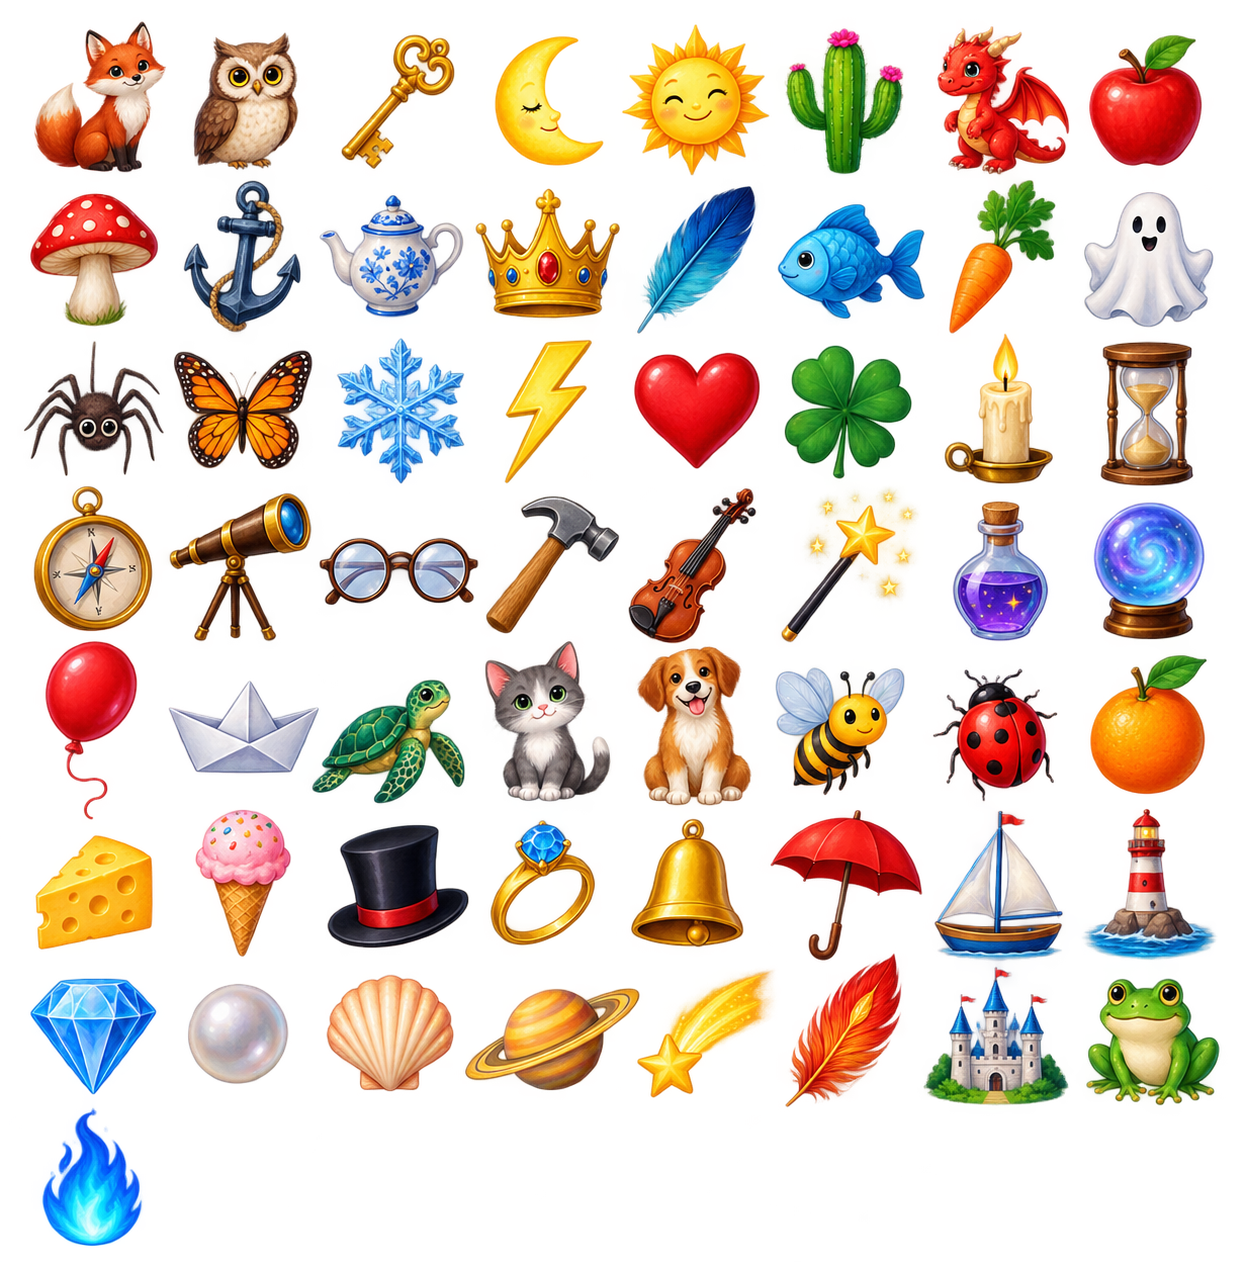
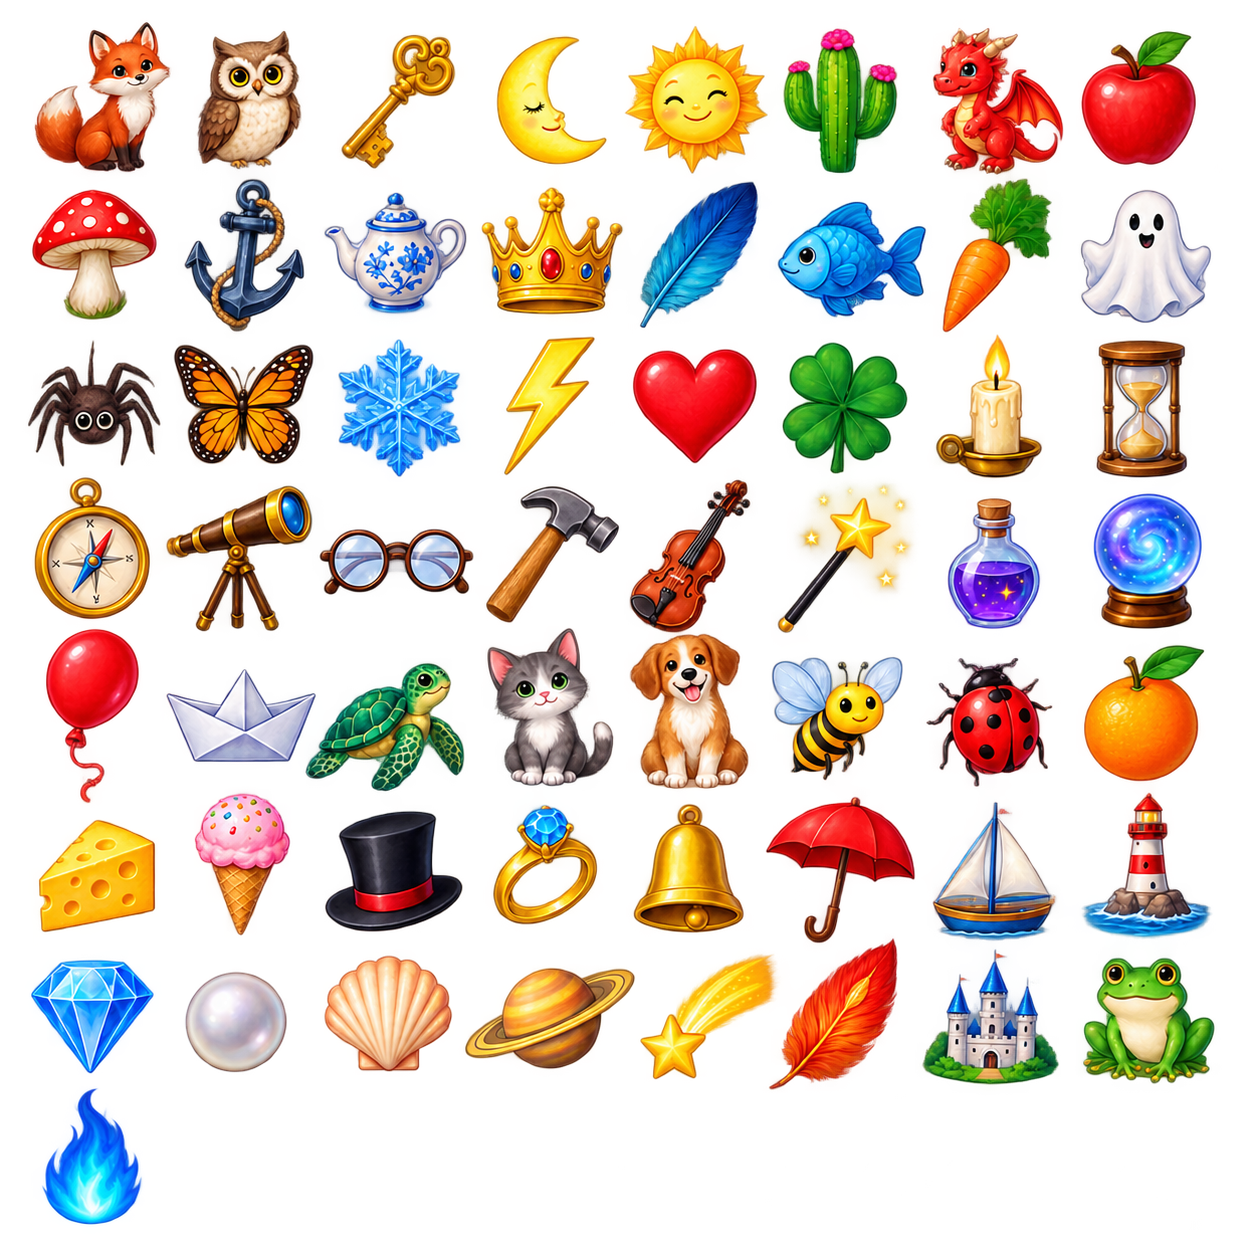
feat: update symboljagd game mechanics and improve card rendering

diff --git a/src/rules/romme.ts b/src/rules/romme.ts
@@ -273,19 +273,19 @@ export const rommeRuleset: CardRuleset = {
     if (state.gameOver || state.phase !== "playing") return [];
     const isTurn = active(state, playerId); const current = selected(state);
     if (phase(state) === "draw") return [
-      { id: "draw", label: context.language === "en" ? "Draw a card" : "Karte ziehen", kind: "primary", enabled: isTurn && state.table.drawPile.length > 0 },
-      { id: "take-discard", label: context.language === "en" ? "Take discard" : "Ablage nehmen", kind: "secondary", enabled: isTurn && state.table.discardPile.length > 0 }
+      { id: "draw", label: context.language === "en" ? "Draw from stock → hand" : "Vom Nachziehstapel → Hand", kind: "primary", enabled: isTurn && state.table.drawPile.length > 0 },
+      { id: "take-discard", label: context.language === "en" ? "Take top discard → hand" : "Oberste Ablage → Hand", kind: "secondary", enabled: isTurn && state.table.discardPile.length > 0 }
     ];
     const cards = handOf(state.table, playerId).map(id => ({ id: `select:${id}`, label: `${current.includes(id) ? "✓ " : ""}${toCardFace(context.deck, state.table.cards[id]!).rankLabel} ${toCardFace(context.deck, state.table.cards[id]!).suitSymbol}`, kind: "secondary" as const, enabled: isTurn }));
-    if (phase(state) === "discard" || phase(state) === "opening-discard") return [...cards, { id: "discard-selected", label: phase(state) === "opening-discard" ? (context.language === "en" ? "Open discard pile" : "Ablagestapel eröffnen") : (context.language === "en" ? "Discard selected card" : "Ausgewählte Karte abwerfen"), kind: "primary", enabled: isTurn && current.length === 1 && (state.table.cards[current[0]!]?.rankId !== "joker" || handOf(state.table, playerId).length === 1) }];
+    if (phase(state) === "discard" || phase(state) === "opening-discard") return [...cards, { id: "discard-selected", label: phase(state) === "opening-discard" ? (context.language === "en" ? "Selected card → discard pile (start)" : "Ausgewählte Karte → Ablage eröffnen") : (context.language === "en" ? "Selected card → discard pile" : "Ausgewählte Karte → Ablagestapel"), kind: "primary", enabled: isTurn && current.length === 1 && (state.table.cards[current[0]!]?.rankId !== "joker" || handOf(state.table, playerId).length === 1) }];
     return [...cards,
-      { id: "lay-selected", label: context.language === "en" ? "Lay selected melds" : "Auswahl auslegen", kind: "primary", enabled: isTurn && current.length >= 3 },
-      { id: "finish-meld", label: context.language === "en" ? "Done melding" : "Fertig auslegen", kind: "secondary", enabled: isTurn },
+      { id: "lay-selected", label: context.language === "en" ? "Lay melds → table center" : "Kombination(en) → Tischmitte", kind: "primary", enabled: isTurn && current.length >= 3 },
+      { id: "finish-meld", label: context.language === "en" ? "Finish laying → discard a card" : "Auslegen beenden → Karte abwerfen", kind: "secondary", enabled: isTurn },
       ...allMelds(state).flatMap((zoneId, index) => {
         const canReplace = current.length === 1 && jokerTargets(state.table.zones[zoneId] ?? [], state, context).some(item => item.suitId === state.table.cards[current[0]!]?.suitId && item.rankId === state.table.cards[current[0]!]?.rankId);
         return [
-          { id: `add:${index}`, label: context.language === "en" ? `Add to meld ${index + 1}` : `An Auslage ${index + 1} anlegen`, kind: "secondary" as const, enabled: isTurn && opened(state, playerId) && current.length > 0 },
-          ...(canReplace ? [{ id: `replace:${index}`, label: context.language === "en" ? `Replace Joker in meld ${index + 1}` : `Joker in Auslage ${index + 1} tauschen`, kind: "secondary" as const, enabled: isTurn && opened(state, playerId) }] : [])
+          { id: `add:${index}`, label: context.language === "en" ? `Add to table meld ${index + 1}` : `An Tisch-Auslage ${index + 1} anlegen`, kind: "secondary" as const, enabled: isTurn && opened(state, playerId) && current.length > 0 },
+          ...(canReplace ? [{ id: `replace:${index}`, label: context.language === "en" ? `Replace Joker in table meld ${index + 1}` : `Joker in Tisch-Auslage ${index + 1} tauschen`, kind: "secondary" as const, enabled: isTurn && opened(state, playerId) }] : [])
         ];
       })
     ];

diff --git a/src/rules/symboljagd.ts b/src/rules/symboljagd.ts
@@ -63,16 +63,16 @@ export const symboljagdRuleset: CardRuleset = {
   },
   introMessage(context) {
     return context.language === "en"
-      ? "Spot the one matching picture on your top card and the center card. Tap your card, then choose the matching picture."
-      : "Finde das gemeinsame Bild auf deiner obersten Karte und der Mitte. Tippe deine Karte und wähle dann das passende Bild.";
+      ? "Find the matching picture on your card and the center card. Tap that picture right on your card."
+      : "Finde das gemeinsame Bild auf deiner Karte und der Mitte. Tippe das Bild direkt auf deiner Karte an.";
   },
   rules(context) {
     return context.language === "en" ? [
       { title: "Goal", lines: ["Be the first to play all your cards."] },
-      { title: "How to play", lines: ["Everyone plays at once. Compare your top card with the center card: exactly one picture matches.", "Tap your card, then tap the matching picture. A correct answer puts your card in the center and reveals your next card.", "A wrong answer locks you for 7 seconds, or until any player solves the current card.", "If another player solves the card first, a correct or mistaken tap from the old card within 2 seconds is treated as a near-simultaneous attempt and carries no penalty."] }
+      { title: "How to play", lines: ["Everyone plays at once. Compare your top card with the center card: exactly one picture matches.", "Tap the matching picture directly on your card. A correct answer puts your card in the center and reveals your next card.", "A wrong answer locks you for 7 seconds, or until any player solves the current card.", "If another player solves the card first, a correct or mistaken tap from the old card within 2 seconds is treated as a near-simultaneous attempt and carries no penalty."] }
     ] : [
       { title: "Ziel", lines: ["Lege als Erste oder Erster alle eigenen Karten ab."] },
-      { title: "Ablauf", lines: ["Alle spielen gleichzeitig. Vergleiche deine oberste Karte mit der Karte in der Mitte: Genau ein Bild ist gleich.", "Tippe deine Karte und wähle dann das passende Bild. Bei einem Treffer kommt deine Karte in die Mitte und deine nächste Karte wird aufgedeckt.", "Ein falscher Tipp sperrt dich 7 Sekunden oder bis jemand die aktuelle Karte löst.", "Löst jemand die Karte zuerst, zählt ein Klick auf die alte Karte innerhalb von 2 Sekunden als nahezu gleichzeitiger Versuch und wird nicht bestraft."] }
+      { title: "Ablauf", lines: ["Alle spielen gleichzeitig. Vergleiche deine Karte mit der Karte in der Mitte: Genau ein Bild ist gleich.", "Tippe das passende Bild direkt auf deiner Karte an. Bei einem Treffer kommt deine Karte in die Mitte und deine nächste Karte wird aufgedeckt.", "Ein falscher Tipp sperrt dich 7 Sekunden oder bis jemand die aktuelle Karte löst.", "Löst jemand die Karte zuerst, zählt ein Klick auf die alte Karte innerhalb von 2 Sekunden als nahezu gleichzeitiger Versuch und wird nicht bestraft."] }
     ];
   },
   canPlayCard(state, context, playerId, cardId) {

diff --git a/src/cards/cardSvg.ts b/src/cards/cardSvg.ts
@@ -135,7 +135,7 @@ function clearBody(face: CardFace, ink: string, width: number, height: number): 
 }
 
 function symboljagdBody(face: CardFace, width: number, height: number): string {
-  const positions: Array<[number, number, number]> = [[25, 28, 28], [70, 24, 22], [52, 48, 30], [24, 66, 22], [77, 66, 26], [43, 85, 22], [74, 105, 20], [25, 108, 20]];
+  const positions: Array<[number, number, number]> = [[20, 22, 22], [72, 20, 16], [49, 43, 34], [19, 61, 17], [79, 59, 28], [43, 79, 18], [75, 91, 15], [22, 96, 15]];
   const seed = [...face.cardId].reduce((value, char) => value + char.charCodeAt(0), 0) % 8;
   const icons = (face.symbols ?? []).map((symbol, index) => {
     const [cx, cy, size] = positions[(index + seed) % positions.length]!;
@@ -145,7 +145,8 @@ function symboljagdBody(face: CardFace, width: number, height: number): string {
     const left = (cx - size / 2) * width / 100;
     const top = (cy - size / 2) * height / 140;
     const edge = size * width / 100;
-    return `<svg x="${left}" y="${top}" width="${edge}" height="${edge}" viewBox="${x * 125} ${y * 125} 125 125" preserveAspectRatio="xMidYMid meet"><image href="/card-table/symboljagd-atlas.png" x="0" y="0" width="1000" height="1000" /></svg>`;
+    const cellSize = 1254 / 8;
+    return `<svg x="${left}" y="${top}" width="${edge}" height="${edge}" viewBox="${x * cellSize} ${y * cellSize} ${cellSize} ${cellSize}" preserveAspectRatio="xMidYMid meet"><image href="/card-table/symboljagd-atlas.png" x="0" y="0" width="1254" height="1254" /></svg>`;
   }).join("");
   return `<rect x="5" y="5" width="90" height="130" rx="6" fill="#fffbf4" />${icons}`;
 }

diff --git a/src/controller/index.ts b/src/controller/index.ts
@@ -25,6 +25,8 @@ type SupportedLanguage = "de" | "en";
  */
 interface CardHandLayoutModel {
   kind: "card_hand";
+  isSymboljagd?: boolean;
+  isRomme?: boolean;
   title: string;
   subtitle: string;
   helperText: string;
@@ -68,6 +70,7 @@ interface ControllerGameRenderContext {
       id: string;
     } | null;
     game?: {
+      rulesetId?: string;
       phase?: string;
       roundNumber?: number;
       message?: string;
@@ -90,6 +93,8 @@ export function buildCardTableControllerModel(
 
   return {
     kind: "card_hand",
+    isRomme: gameState.rulesetId === "romme",
+    isSymboljagd: gameState.rulesetId === "symboljagd",
     title: gameState.title ?? (en ? "Card table" : "Kartentisch"),
     subtitle: gameState.gameOver
       ? gameState.winnerName

diff --git a/src/host/tableHtml.ts b/src/host/tableHtml.ts
@@ -130,6 +130,8 @@ export function renderCardTableHtml(
     : state.stacks.filter((stack) => !stack.onDemand);
   const cardWidth = state.rulesetId === "doppelkopf"
     ? Math.min(220, cardWidthFor(stacks) + 34)
+    : state.rulesetId === "symboljagd"
+      ? Math.min(290, cardWidthFor(stacks) + 80)
     : cardWidthFor(stacks);
   const condition = state.conditionLabel
     ? `<span class="ct-chip">${escapeHtml(`${state.conditionSymbol ?? ""} ${state.conditionLabel}`.trim())}</span>`
